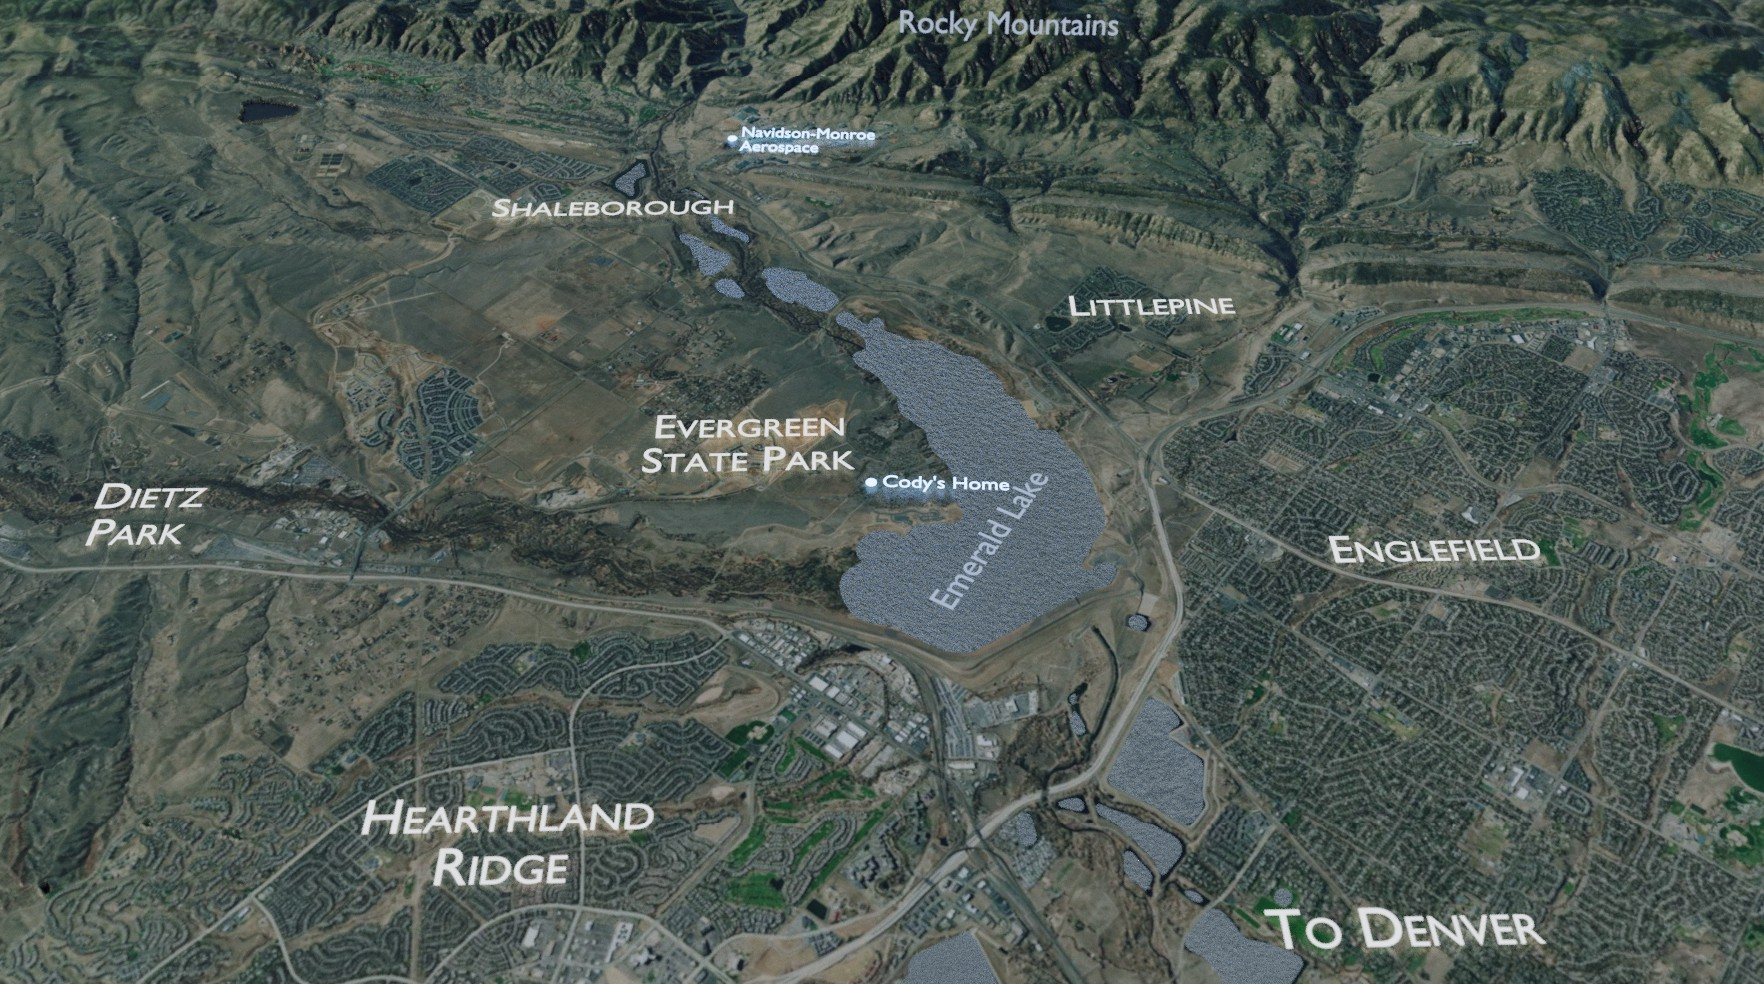
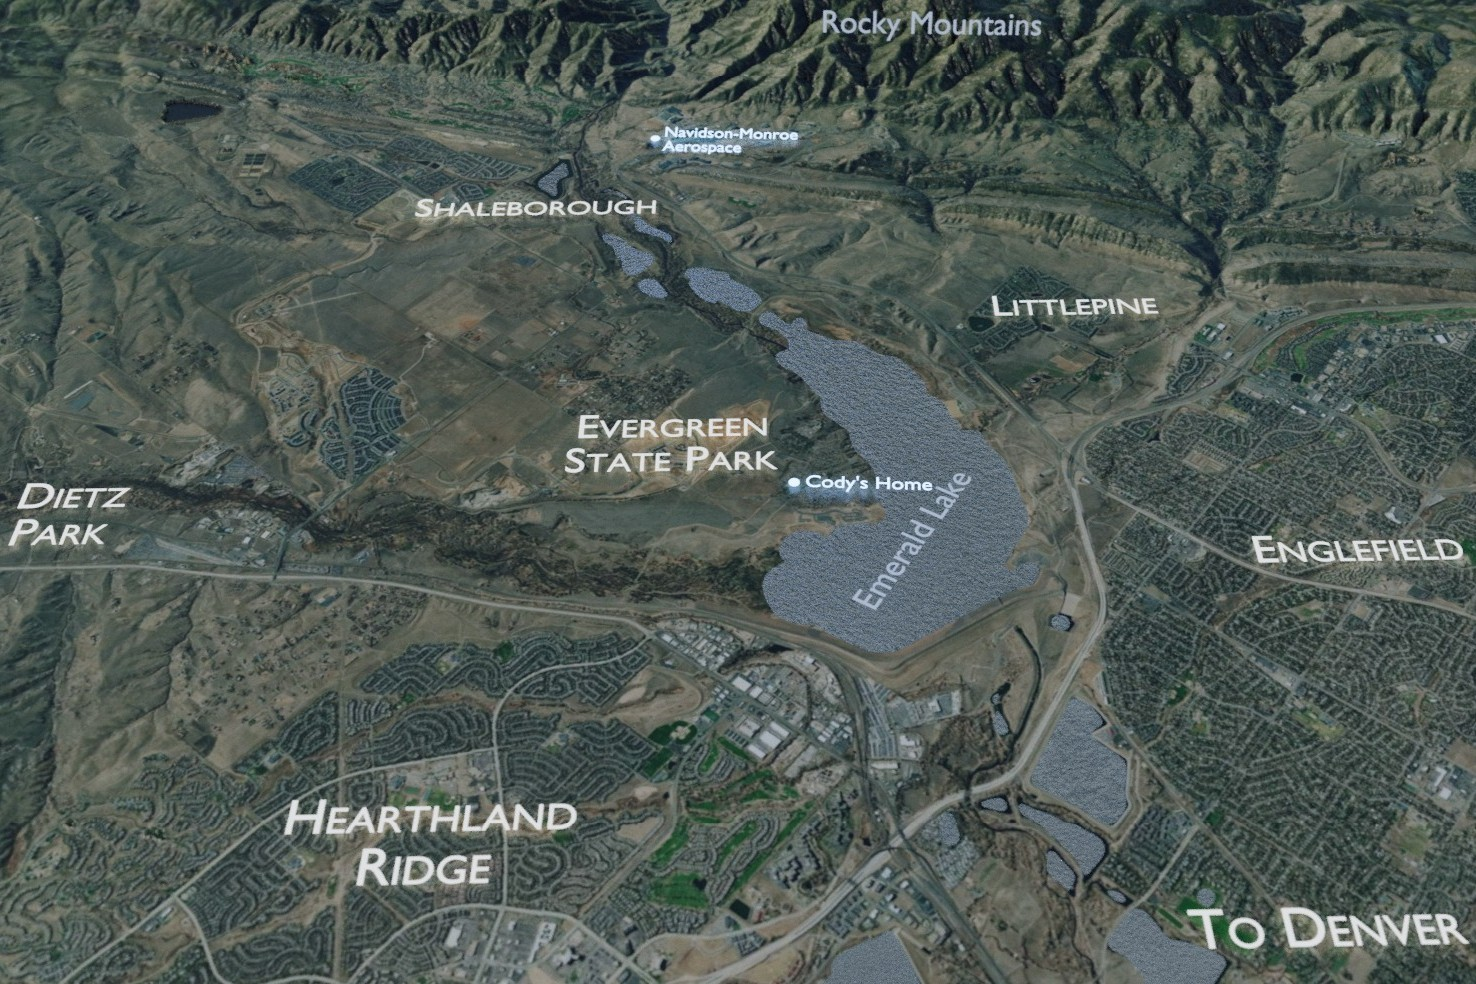
maps

diff --git a/Scriv2WN/main.ts b/Scriv2WN/main.ts
@@ -1163,7 +1163,8 @@ class ChapterBinder {
     }
 
     placeWorldMap(character:string) {
-        eMAP.style.backgroundImage = `url(../Scriv2WN/maps/map${character}.jpg)`;
+        let eIMG:HTMLImageElement = eMAP as HTMLImageElement
+        eIMG.src = `../Scriv2WN/maps/map${character}.jpg`;
         //this.CURRENT_SCENE[2]
     }
 
@@ -1749,7 +1750,7 @@ const eBODY                 = GEBID('BODY')
 const eTYPESET              = GEBID('TYPESET')
 const eIDCHAPTER            = GEBID('IDCHAPTER')
 const eIDNAME               = GEBID('IDNAME')
-const eMAP                  = GEBID('STORYMAP')
+const eMAP                  = GEBID('MAP')
 
 const DEPLOY = "TYPESET";
 const EXTRAID = "EXTRACONTENT";
@@ -1800,3 +1801,28 @@ const iconaddress = `icons/favicon-${ACTIVESTORY}.png`;
 buildManuscript(rootURL,ACTIVESTORY, StartChapter);
 eBODY.addEventListener('scroll',runScrollEvents);
 addEventListener("resize", runResizeEvents)
+
+function getMousePosInImage(img: HTMLImageElement, ev: MouseEvent) {
+    const r = img.getBoundingClientRect();
+    const x = ev.clientX - r.left;
+    const y = ev.clientY - r.top;
+    const px = r.width > 0 ? Math.max(0, Math.min(1, x / r.width)) : 0;
+    const py = r.height > 0 ? Math.max(0, Math.min(1, y / r.height)) : 0;
+    const percentX = px * 100;
+    const percentY = py * 100;
+    return { x, y, px, py, percentX, percentY, bounds: r };
+}
+
+if (eMAP instanceof HTMLImageElement) {
+    eMAP.addEventListener('mousedown', (ev: MouseEvent) => {
+        const pos = getMousePosInImage(eMAP, ev);
+        // Example usage: expose as CSS vars or log
+        ROOT.style.setProperty('--img-mouse-x', `${(pos.px * 100).toFixed(2)}%`);
+        ROOT.style.setProperty('--img-mouse-y', `${(pos.py * 100).toFixed(2)}%`);
+        console.debug('Image mouse pos', `[${pos.percentX},${pos.percentY}]`);
+    });
+    eMAP.addEventListener('mouseleave', () => {
+        ROOT.style.removeProperty('--img-mouse-x');
+        ROOT.style.removeProperty('--img-mouse-y');
+    });
+}

diff --git a/Scriv2WN/main.js b/Scriv2WN/main.js
@@ -1105,7 +1105,8 @@ class ChapterBinder {
         return msgsource;
     }
     placeWorldMap(character) {
-        eMAP.style.backgroundImage = `url(../Scriv2WN/maps/map${character}.jpg)`;
+        let eIMG = eMAP;
+        eIMG.src = `../Scriv2WN/maps/map${character}.jpg`;
         //this.CURRENT_SCENE[2]
     }
     ResolveThisLine(lineContent, lineID, sectionStyle) {
@@ -1672,7 +1673,7 @@ const eBODY = GEBID('BODY');
 const eTYPESET = GEBID('TYPESET');
 const eIDCHAPTER = GEBID('IDCHAPTER');
 const eIDNAME = GEBID('IDNAME');
-const eMAP = GEBID('STORYMAP');
+const eMAP = GEBID('MAP');
 const DEPLOY = "TYPESET";
 const EXTRAID = "EXTRACONTENT";
 var StartChapter = 1;
@@ -1714,3 +1715,26 @@ const iconaddress = `icons/favicon-${ACTIVESTORY}.png`;
 buildManuscript(rootURL, ACTIVESTORY, StartChapter);
 eBODY.addEventListener('scroll', runScrollEvents);
 addEventListener("resize", runResizeEvents);
+function getMousePosInImage(img, ev) {
+    const r = img.getBoundingClientRect();
+    const x = ev.clientX - r.left;
+    const y = ev.clientY - r.top;
+    const px = r.width > 0 ? Math.max(0, Math.min(1, x / r.width)) : 0;
+    const py = r.height > 0 ? Math.max(0, Math.min(1, y / r.height)) : 0;
+    const percentX = px * 100;
+    const percentY = py * 100;
+    return { x, y, px, py, percentX, percentY, bounds: r };
+}
+if (eMAP instanceof HTMLImageElement) {
+    eMAP.addEventListener('mousedown', (ev) => {
+        const pos = getMousePosInImage(eMAP, ev);
+        // Example usage: expose as CSS vars or log
+        ROOT.style.setProperty('--img-mouse-x', `${(pos.px * 100).toFixed(2)}%`);
+        ROOT.style.setProperty('--img-mouse-y', `${(pos.py * 100).toFixed(2)}%`);
+        console.debug('Image mouse pos', `[${pos.percentX},${pos.percentY}]`);
+    });
+    eMAP.addEventListener('mouseleave', () => {
+        ROOT.style.removeProperty('--img-mouse-x');
+        ROOT.style.removeProperty('--img-mouse-y');
+    });
+}

diff --git a/Scriv2WN/index.html b/Scriv2WN/index.html
@@ -14,6 +14,8 @@
 
 <body style="background-color:black;">
     <div class="STORYMAP" id="STORYMAP">
+        <img class="MAP" id="MAP" src="" onclick=""/>
+        
         <div class="STORYPIN" id="STORYPIN"></div>
     </div>
     <!-- This element handles the backgrounds, and takes up the entire  -->

diff --git a/Scriv2WN/styles/contentstyles.css b/Scriv2WN/styles/contentstyles.css
@@ -620,6 +620,12 @@ div.TOGGLEMAP {
     color: var(--TextColor);
     font-size: 1.35em;
 }
+img.MAP {
+    height: 100%;
+    position: absolute;
+    left: 50%;
+    transform: translateX(-50%);
+}
 
 img.hrdiv {
     position:relative;
